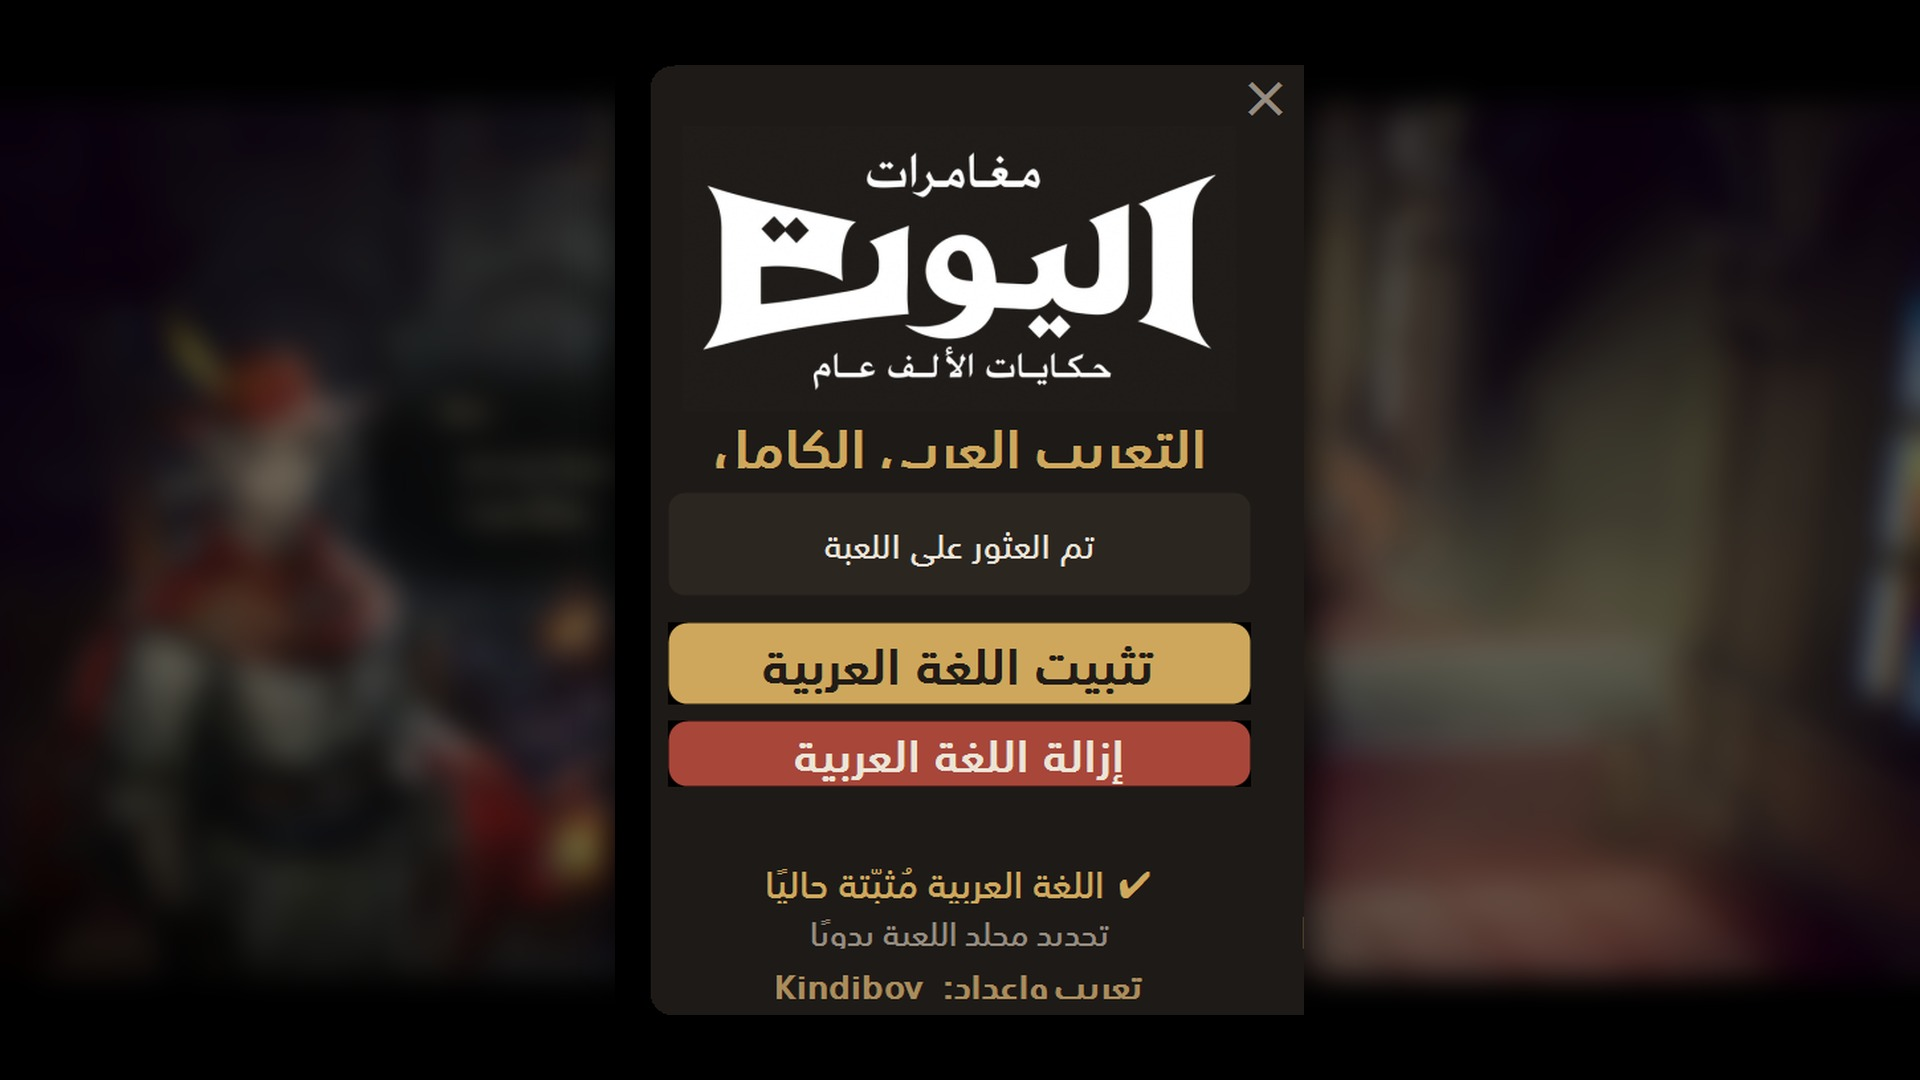
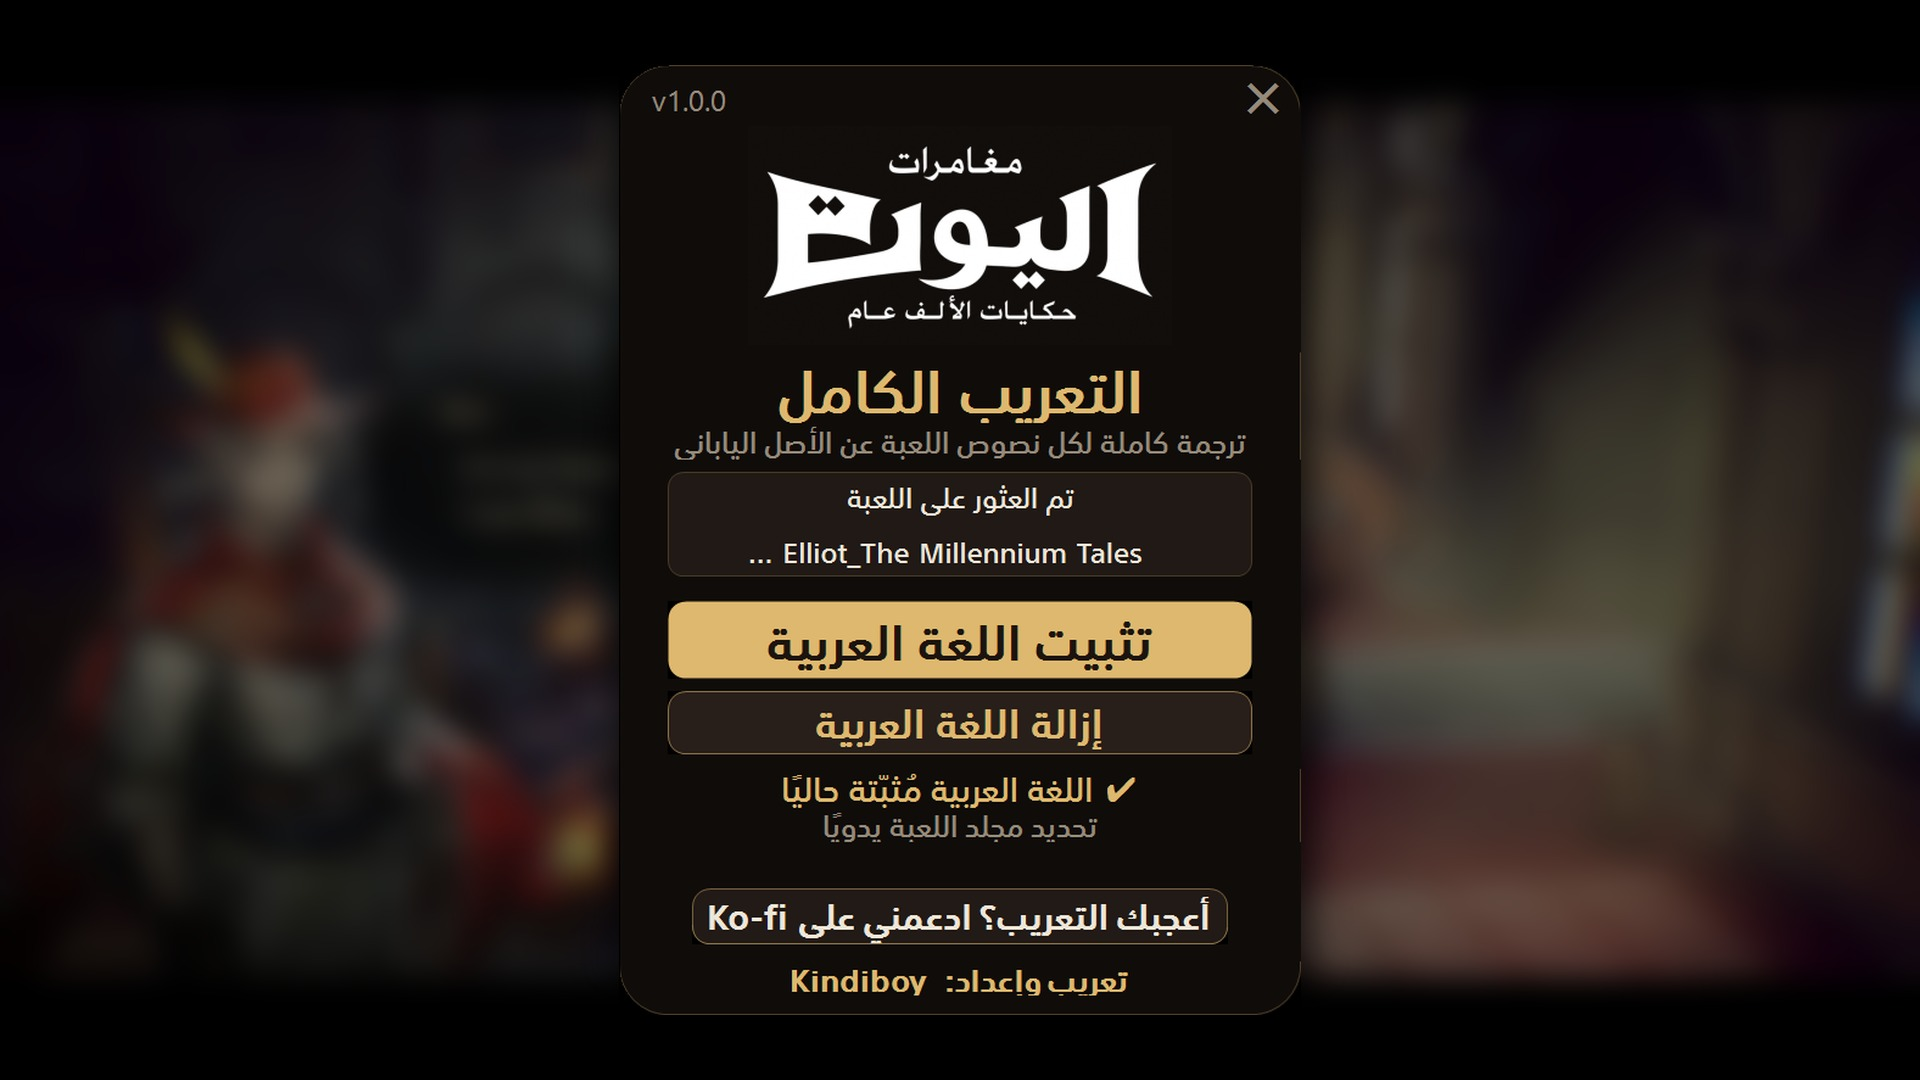
Installer redesign to house style

diff --git a/installer/Program.cs b/installer/Program.cs
@@ -16,6 +16,7 @@ namespace ElliotArabic
 {
     static class Program
     {
+        public const string Version = "1.0.0";
         const string AppId = "3483510";
[1 lines of base64/hex data omitted]
         const long PathHashSeed = 1743788200; // 0x67F018A8
@@ -244,19 +245,19 @@ namespace ElliotArabic
         }
     }
 
-    // ===================== modern UI =====================
+    // ===================== modern UI (same visual language as the other Kindiboy installers) =====================
 
     static class Ui
     {
-        public static readonly Color Bg = Color.FromArgb(30, 26, 23);
-        public static readonly Color Card = Color.FromArgb(44, 38, 33);
-        public static readonly Color Gold = Color.FromArgb(206, 167, 92);
-        public static readonly Color GoldHover = Color.FromArgb(224, 187, 112);
-        public static readonly Color Red = Color.FromArgb(168, 70, 58);
-        public static readonly Color RedHover = Color.FromArgb(192, 86, 72);
-        public static readonly Color Ink = Color.FromArgb(34, 28, 23);
-        public static readonly Color Text = Color.FromArgb(236, 228, 214);
-        public static readonly Color Muted = Color.FromArgb(150, 140, 128);
+        public static readonly Color Bg = Color.FromArgb(16, 12, 10);
+        public static readonly Color Card = Color.FromArgb(36, 28, 24);
+        public static readonly Color Gold = Color.FromArgb(222, 184, 110);   // parchment gold (title lettering)
+        public static readonly Color GoldHover = Color.FromArgb(238, 204, 136);
+        public static readonly Color Red = Color.FromArgb(186, 40, 44);      // Elliot's crimson hat
+        public static readonly Color RedHover = Color.FromArgb(210, 62, 66);
+        public static readonly Color Ink = Color.FromArgb(28, 20, 14);
+        public static readonly Color Text = Color.FromArgb(238, 230, 216);
+        public static readonly Color Muted = Color.FromArgb(150, 138, 122);
 
         static PrivateFontCollection _pfc;
         public static FontFamily Family;
@@ -283,6 +284,17 @@ namespace ElliotArabic
 
         public static Font F(float size, FontStyle style = FontStyle.Regular)
             => new Font(Family, size, style, GraphicsUnit.Point);
+
+        public static Image LoadBackground()
+        {
+            try
+            {
+                using (Stream st = Assembly.GetExecutingAssembly().GetManifestResourceStream("ui_bg.jpg"))
+                using (var img = Image.FromStream(st))
+                    return new Bitmap(img);
+            }
+            catch { return null; }
+        }
 
         public static Image LoadLogo()
         {
@@ -314,6 +326,7 @@ namespace ElliotArabic
         public Color Hover = Ui.GoldHover;
         public Color Fg = Ui.Ink;
         public int Radius = 14;
+        public Color Outline = Color.Empty;
         bool _hover;
 
         public RoundButton()
@@ -336,13 +349,16 @@ namespace ElliotArabic
             g.SmoothingMode = SmoothingMode.AntiAlias;
             g.TextRenderingHint = System.Drawing.Text.TextRenderingHint.ClearTypeGridFit;
             var rect = new Rectangle(0, 0, Width - 1, Height - 1);
-            Color fill = !Enabled ? Color.FromArgb(70, 64, 58) : (_hover ? Hover : Base);
+            Color fill = !Enabled ? Color.FromArgb(64, 54, 46) : (_hover ? Hover : Base);
             using (var path = Ui.Round(rect, Radius))
             using (var b = new SolidBrush(fill))
+            {
                 g.FillPath(b, path);
+                if (Outline != Color.Empty) using (var pen = new Pen(Outline, 1f)) g.DrawPath(pen, path);
+            }
             var sf = new StringFormat(StringFormatFlags.DirectionRightToLeft)
             { Alignment = StringAlignment.Center, LineAlignment = StringAlignment.Center };
-            using (var tb = new SolidBrush(Enabled ? Fg : Color.FromArgb(140, 130, 120)))
+            using (var tb = new SolidBrush(Enabled ? Fg : Color.FromArgb(140, 128, 114)))
                 g.DrawString(Text, Font, tb, rect, sf);
         }
     }
@@ -359,153 +375,121 @@ namespace ElliotArabic
         {
             Ui.LoadFont();
 
+            AutoScaleMode = AutoScaleMode.Dpi;
+            AutoScaleDimensions = new SizeF(96F, 96F);
             FormBorderStyle = FormBorderStyle.None;
             StartPosition = FormStartPosition.CenterScreen;
-            ClientSize = new Size(520, 716);
+            ClientSize = new Size(560, 780);
             BackColor = Ui.Bg;
+            BackgroundImage = Ui.LoadBackground();
+            BackgroundImageLayout = ImageLayout.Stretch;
             RightToLeft = RightToLeft.Yes;
             RightToLeftLayout = true;
             Font = Ui.F(11f);
-            Region = new Region(Ui.Round(new Rectangle(0, 0, Width, Height), 18));
-
-            // drag to move
+            Text = "Elliot Arabic Installer v" + Program.Version;
             MouseDown += DragStart;
 
-            // close button
             var close = new Label
             {
-                Text = "✕",
-                Font = new Font("Segoe UI", 12f, FontStyle.Bold),
-                ForeColor = Ui.Muted,
-                AutoSize = false,
-                Size = new Size(34, 30),
-                Location = new Point(12, 12),
-                TextAlign = ContentAlignment.MiddleCenter,
-                Cursor = Cursors.Hand
+                Text = "✕", Font = new Font("Segoe UI", 12f, FontStyle.Bold), ForeColor = Ui.Muted,
+                AutoSize = false, Size = new Size(34, 30), Location = new Point(14, 14),
+                TextAlign = ContentAlignment.MiddleCenter, Cursor = Cursors.Hand, BackColor = Color.Transparent
             };
             close.Click += (s, e) => Close();
             close.MouseEnter += (s, e) => { close.ForeColor = Ui.Red; };
             close.MouseLeave += (s, e) => { close.ForeColor = Ui.Muted; };
             Controls.Add(close);
 
-            // logo
+            var ver = new Label
+            {
+                Text = "v" + Program.Version, Font = new Font("Segoe UI", 9f), ForeColor = Ui.Muted,
+                AutoSize = false, Size = new Size(80, 30), Location = new Point(ClientSize.Width - 92, 14),
+                TextAlign = ContentAlignment.MiddleRight, RightToLeft = RightToLeft.No, BackColor = Color.Transparent
+            };
+            ver.MouseDown += DragStart;
+            Controls.Add(ver);
+
             var logo = new PictureBox
             {
-                Image = Ui.LoadLogo(),
-                SizeMode = PictureBoxSizeMode.Zoom,
-                BackColor = Color.Transparent,
-                Size = new Size(420, 216),
-                Location = new Point((ClientSize.Width - 420) / 2, 46)
+                Image = Ui.LoadLogo(), SizeMode = PictureBoxSizeMode.Zoom, BackColor = Color.Transparent,
+                Size = new Size(440, 180), Location = new Point((ClientSize.Width - 440) / 2, 50)
             };
             logo.MouseDown += DragStart;
             Controls.Add(logo);
 
-            // subtitle
             var subtitle = new Label
             {
-                Text = "التعريب العربي الكامل",
-                Font = Ui.F(15f, FontStyle.Bold),
-                ForeColor = Ui.Gold,
-                AutoSize = false,
-                UseCompatibleTextRendering = true,
-                TextAlign = ContentAlignment.MiddleCenter,
-                Size = new Size(ClientSize.Width, 34),
-                Location = new Point(0, 270)
+                Text = "التعريب الكامل", Font = Ui.F(18f, FontStyle.Bold), ForeColor = Ui.Gold,
+                AutoSize = false, UseCompatibleTextRendering = true, TextAlign = ContentAlignment.MiddleCenter,
+                Size = new Size(ClientSize.Width, 58), Location = new Point(0, 236), BackColor = Color.Transparent
             };
-            subtitle.MouseDown += DragStart;
-            Controls.Add(subtitle);
+            subtitle.MouseDown += DragStart; Controls.Add(subtitle);
 
-            // status card
+            var tagline = new Label
+            {
+                Text = "ترجمة كاملة لكل نصوص اللعبة عن الأصل الياباني",
+                Font = Ui.F(9f), ForeColor = Ui.Muted,
+                AutoSize = false, UseCompatibleTextRendering = true, TextAlign = ContentAlignment.MiddleCenter,
+                Size = new Size(ClientSize.Width, 30), Location = new Point(0, 294), BackColor = Color.Transparent
+            };
+            tagline.MouseDown += DragStart; Controls.Add(tagline);
+
             var card = new RoundPanel
             {
-                Size = new Size(440, 78),
-                Location = new Point((ClientSize.Width - 440) / 2, 322),
-                Fill = Ui.Card
+                Size = new Size(480, 86), Location = new Point((ClientSize.Width - 480) / 2, 334),
+                Fill = Color.FromArgb(205, Ui.Card), Border = Color.FromArgb(60, Ui.Gold)
             };
             lblPath = new Label
             {
-                AutoSize = false,
-                Dock = DockStyle.Fill,
-                Padding = new Padding(14, 8, 14, 8),
-                ForeColor = Ui.Text,
-                Font = Ui.F(9.5f),
-                UseCompatibleTextRendering = true,
-                TextAlign = ContentAlignment.MiddleCenter,
-                BackColor = Color.Transparent
+                AutoSize = false, Dock = DockStyle.Fill, Padding = new Padding(6, 4, 6, 4), ForeColor = Ui.Text,
+                Font = Ui.F(8.5f), UseCompatibleTextRendering = true, TextAlign = ContentAlignment.MiddleCenter, BackColor = Color.Transparent
             };
-            card.Controls.Add(lblPath);
-            Controls.Add(card);
+            card.Controls.Add(lblPath); Controls.Add(card);
 
-            // install button
             btnInstall = new RoundButton
             {
-                Text = "تثبيت اللغة العربية",
-                Font = Ui.F(14f, FontStyle.Bold),
-                Size = new Size(440, 62),
-                Location = new Point((ClientSize.Width - 440) / 2, 420),
-                Base = Ui.Gold,
-                Hover = Ui.GoldHover,
-                Fg = Ui.Ink
+                Text = "تثبيت اللغة العربية", Font = Ui.F(15f, FontStyle.Bold), Size = new Size(480, 64),
+                Location = new Point((ClientSize.Width - 480) / 2, 440), Base = Ui.Gold, Hover = Ui.GoldHover, Fg = Ui.Ink, Radius = 14
             };
-            btnInstall.Click += OnInstall;
-            Controls.Add(btnInstall);
+            btnInstall.Click += OnInstall; Controls.Add(btnInstall);
 
-            // uninstall button
             btnUninstall = new RoundButton
             {
-                Text = "إزالة اللغة العربية",
-                Font = Ui.F(12.5f, FontStyle.Bold),
-                Size = new Size(440, 50),
-                Location = new Point((ClientSize.Width - 440) / 2, 494),
-                Base = Ui.Red,
-                Hover = Ui.RedHover,
-                Fg = Ui.Text
+                Text = "إزالة اللغة العربية", Font = Ui.F(12f, FontStyle.Bold), Size = new Size(480, 52),
+                Location = new Point((ClientSize.Width - 480) / 2, 514), Base = Color.FromArgb(40, 30, 26), Hover = Color.FromArgb(58, 44, 38),
+                Fg = Ui.Gold, Outline = Color.FromArgb(150, Ui.Gold), Radius = 14
             };
-            btnUninstall.Click += OnUninstall;
-            Controls.Add(btnUninstall);
+            btnUninstall.Click += OnUninstall; Controls.Add(btnUninstall);
 
-            // status line
             lblStatus = new Label
             {
-                AutoSize = false,
-                Font = Ui.F(10f),
-                UseCompatibleTextRendering = true,
-                TextAlign = ContentAlignment.MiddleCenter,
-                ForeColor = Ui.Muted,
-                Size = new Size(ClientSize.Width, 30),
-                Location = new Point(0, 602)
+                AutoSize = false, Font = Ui.F(10f), UseCompatibleTextRendering = true, TextAlign = ContentAlignment.MiddleCenter,
+                ForeColor = Ui.Muted, Size = new Size(ClientSize.Width, 32), Location = new Point(0, 578), BackColor = Color.Transparent
             };
-            lblStatus.MouseDown += DragStart;
-            Controls.Add(lblStatus);
+            lblStatus.MouseDown += DragStart; Controls.Add(lblStatus);
 
-            // manual browse
             btnBrowse = new LinkLabel
             {
-                Text = "تحديد مجلد اللعبة يدويًا",
-                AutoSize = false,
-                Font = Ui.F(9f),
-                LinkColor = Ui.Muted,
-                ActiveLinkColor = Ui.Gold,
-                LinkBehavior = LinkBehavior.HoverUnderline,
-                TextAlign = ContentAlignment.MiddleCenter,
-                Size = new Size(ClientSize.Width, 24),
-                Location = new Point(0, 642),
-                BackColor = Color.Transparent
+                Text = "تحديد مجلد اللعبة يدويًا", AutoSize = false, Font = Ui.F(9f), LinkColor = Ui.Muted,
+                ActiveLinkColor = Ui.Gold, LinkBehavior = LinkBehavior.HoverUnderline, TextAlign = ContentAlignment.MiddleCenter,
+                Size = new Size(ClientSize.Width, 28), Location = new Point(0, 610), BackColor = Color.Transparent
             };
-            btnBrowse.Click += OnBrowse;
-            Controls.Add(btnBrowse);
+            btnBrowse.Click += OnBrowse; Controls.Add(btnBrowse);
 
-            // footer — credit
+            var kofi = new RoundButton
+            {
+                Text = "أعجبك التعريب؟ ادعمني على Ko-fi", Font = Ui.F(10.5f, FontStyle.Bold), Size = new Size(440, 46),
+                Location = new Point((ClientSize.Width - 440) / 2, 676), Base = Color.FromArgb(34, 26, 22), Hover = Color.FromArgb(50, 40, 34),
+                Fg = Ui.Text, Outline = Color.FromArgb(120, Ui.Gold), Radius = 14
+            };
+            kofi.Click += (s, e) => { try { Process.Start(new ProcessStartInfo("https://ko-fi.com/kindiboy") { UseShellExecute = true }); } catch { } };
+            Controls.Add(kofi);
+
             var footer = new Label
             {
-                Text = "تعريب وإعداد:  Kindiboy",
-                Font = Ui.F(9.5f, FontStyle.Bold),
-                ForeColor = Color.FromArgb(170, 140, 92),
-                AutoSize = false,
-                UseCompatibleTextRendering = true,
-                TextAlign = ContentAlignment.MiddleCenter,
-                Size = new Size(ClientSize.Width, 22),
-                Location = new Point(0, 682)
+                Text = "تعريب وإعداد:  Kindiboy", Font = Ui.F(9.5f, FontStyle.Bold), ForeColor = Ui.Gold,
+                AutoSize = false, UseCompatibleTextRendering = true, TextAlign = ContentAlignment.MiddleCenter,
+                Size = new Size(ClientSize.Width, 28), Location = new Point(0, 736), BackColor = Color.Transparent
             };
             footer.MouseDown += DragStart;
             Controls.Add(footer);
@@ -514,19 +498,23 @@ namespace ElliotArabic
             RefreshState();
         }
 
+        protected override void OnSizeChanged(EventArgs e)
+        {
+            base.OnSizeChanged(e);
+            Region = new Region(Ui.Round(new Rectangle(0, 0, Width, Height), (int)(20 * DeviceDpi / 96f)));
+        }
+
         protected override void OnPaint(PaintEventArgs e)
         {
             base.OnPaint(e);
-            // subtle gold border
-            using (var pen = new Pen(Color.FromArgb(60, Ui.Gold), 1))
-            using (var path = Ui.Round(new Rectangle(0, 0, Width - 1, Height - 1), 18))
+            using (var pen = new Pen(Color.FromArgb(70, Ui.Gold), 1))
+            using (var path = Ui.Round(new Rectangle(0, 0, Width - 1, Height - 1), (int)(20 * DeviceDpi / 96f)))
             {
                 e.Graphics.SmoothingMode = SmoothingMode.AntiAlias;
                 e.Graphics.DrawPath(pen, path);
             }
         }
 
-        // ---- drag-to-move (borderless) ----
         [DllImport("user32.dll")] static extern bool ReleaseCapture();
         [DllImport("user32.dll")] static extern IntPtr SendMessage(IntPtr h, int msg, int wp, int lp);
         void DragStart(object sender, MouseEventArgs e)
@@ -564,8 +552,8 @@ namespace ElliotArabic
 
         static string Trim(string p)
         {
-            if (p != null && p.Length > 52) return "…" + p.Substring(p.Length - 50);
-            return p;
+            if (p != null && p.Length > 30) p = "…" + p.Substring(p.Length - 28);
+            return p == null ? null : "\u202A" + p + "\u202C";
         }
 
         void SetStatus(string text, Color color)
@@ -576,8 +564,8 @@ namespace ElliotArabic
 
         void Progress(string text)
         {
-            if (InvokeRequired) BeginInvoke(new Action(() => SetStatus(text, Color.FromArgb(120, 170, 220))));
-            else SetStatus(text, Color.FromArgb(120, 170, 220));
+            if (InvokeRequired) BeginInvoke(new Action(() => SetStatus(text, Ui.Gold)));
+            else SetStatus(text, Ui.Gold);
         }
 
         void SetBusy(bool b)
@@ -681,6 +669,7 @@ namespace ElliotArabic
     public class RoundPanel : Panel
     {
         public Color Fill = Ui.Card;
+        public Color Border = Color.Empty;
         public int Radius = 12;
         public RoundPanel()
         {
@@ -695,7 +684,10 @@ namespace ElliotArabic
             var r = new Rectangle(0, 0, Width - 1, Height - 1);
             using (var path = Ui.Round(r, Radius))
             using (var b = new SolidBrush(Fill))
+            {
                 g.FillPath(b, path);
+                if (Border != Color.Empty) using (var pen = new Pen(Border, 1f)) g.DrawPath(pen, path);
+            }
         }
     }
 }
